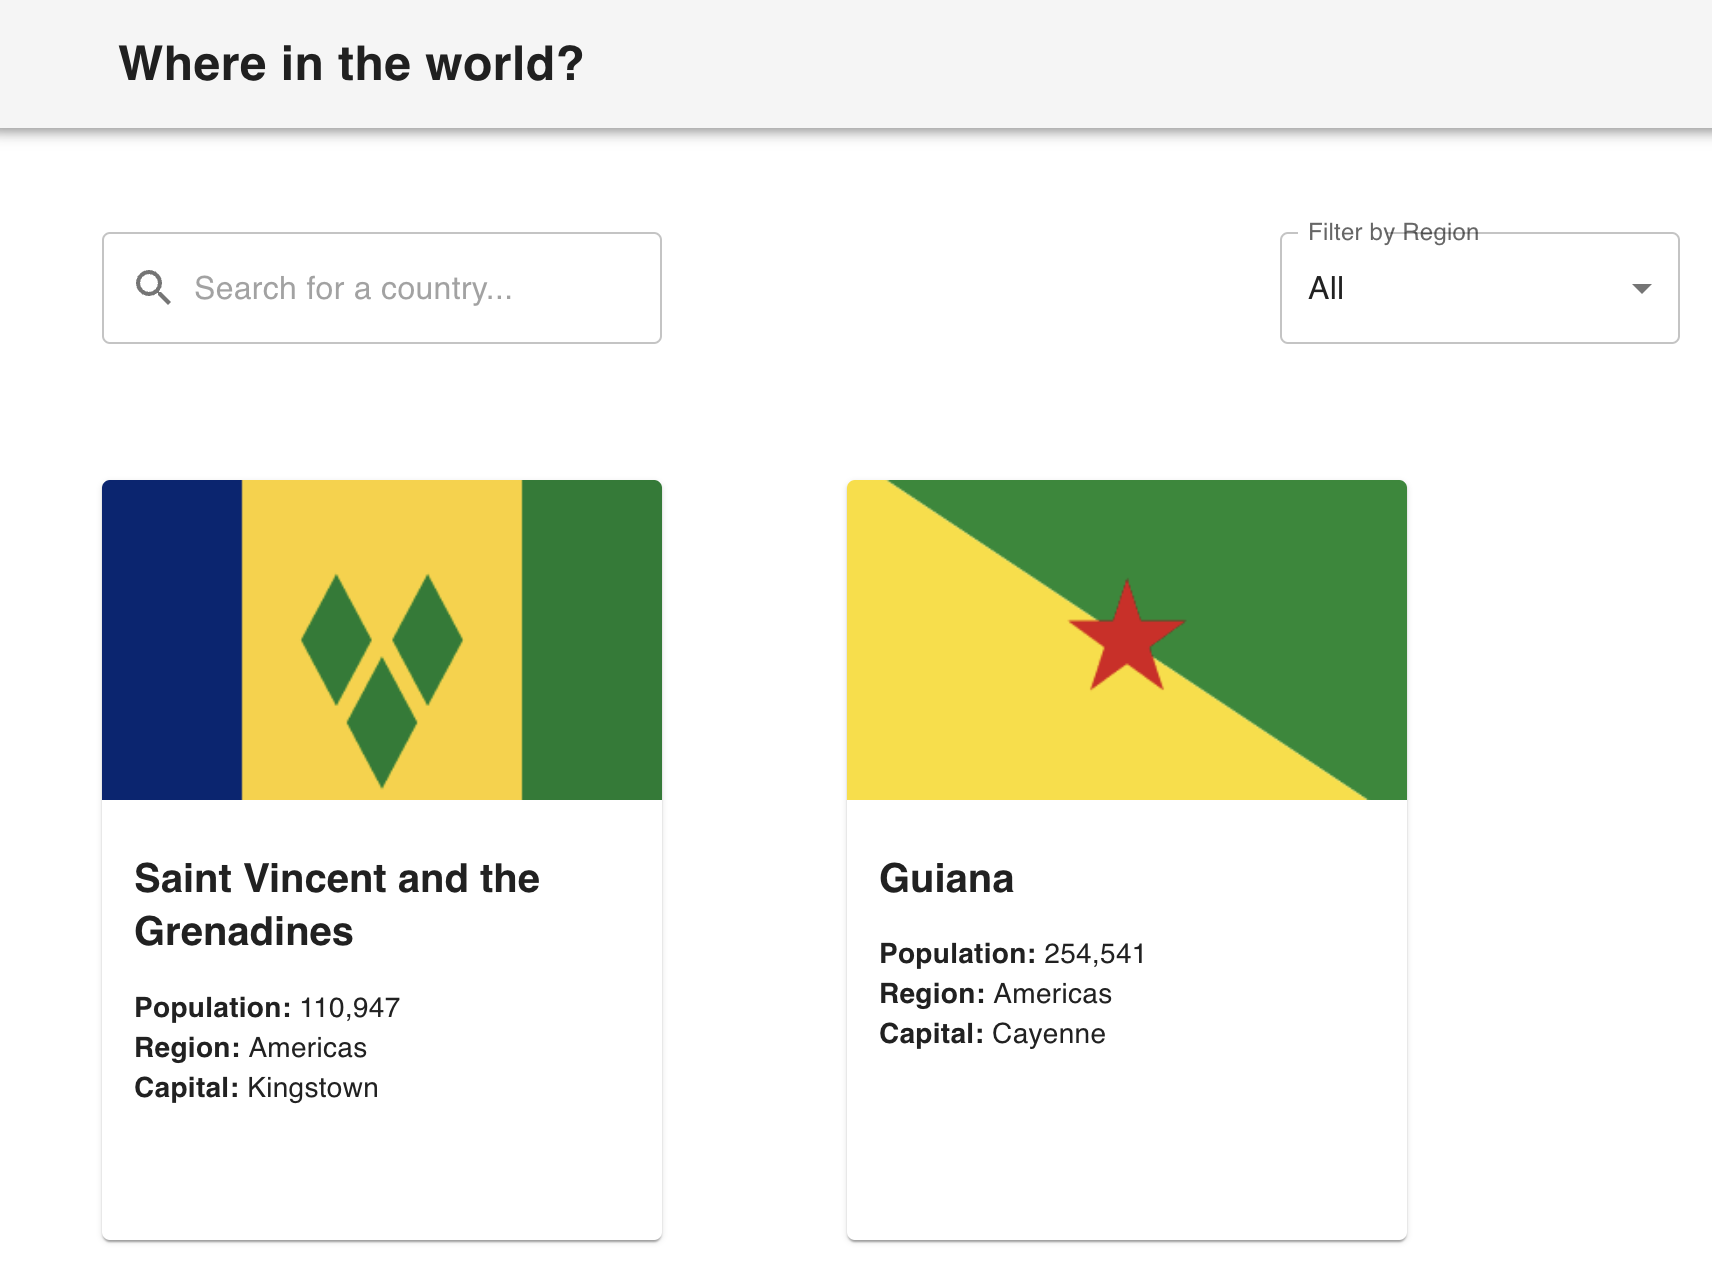
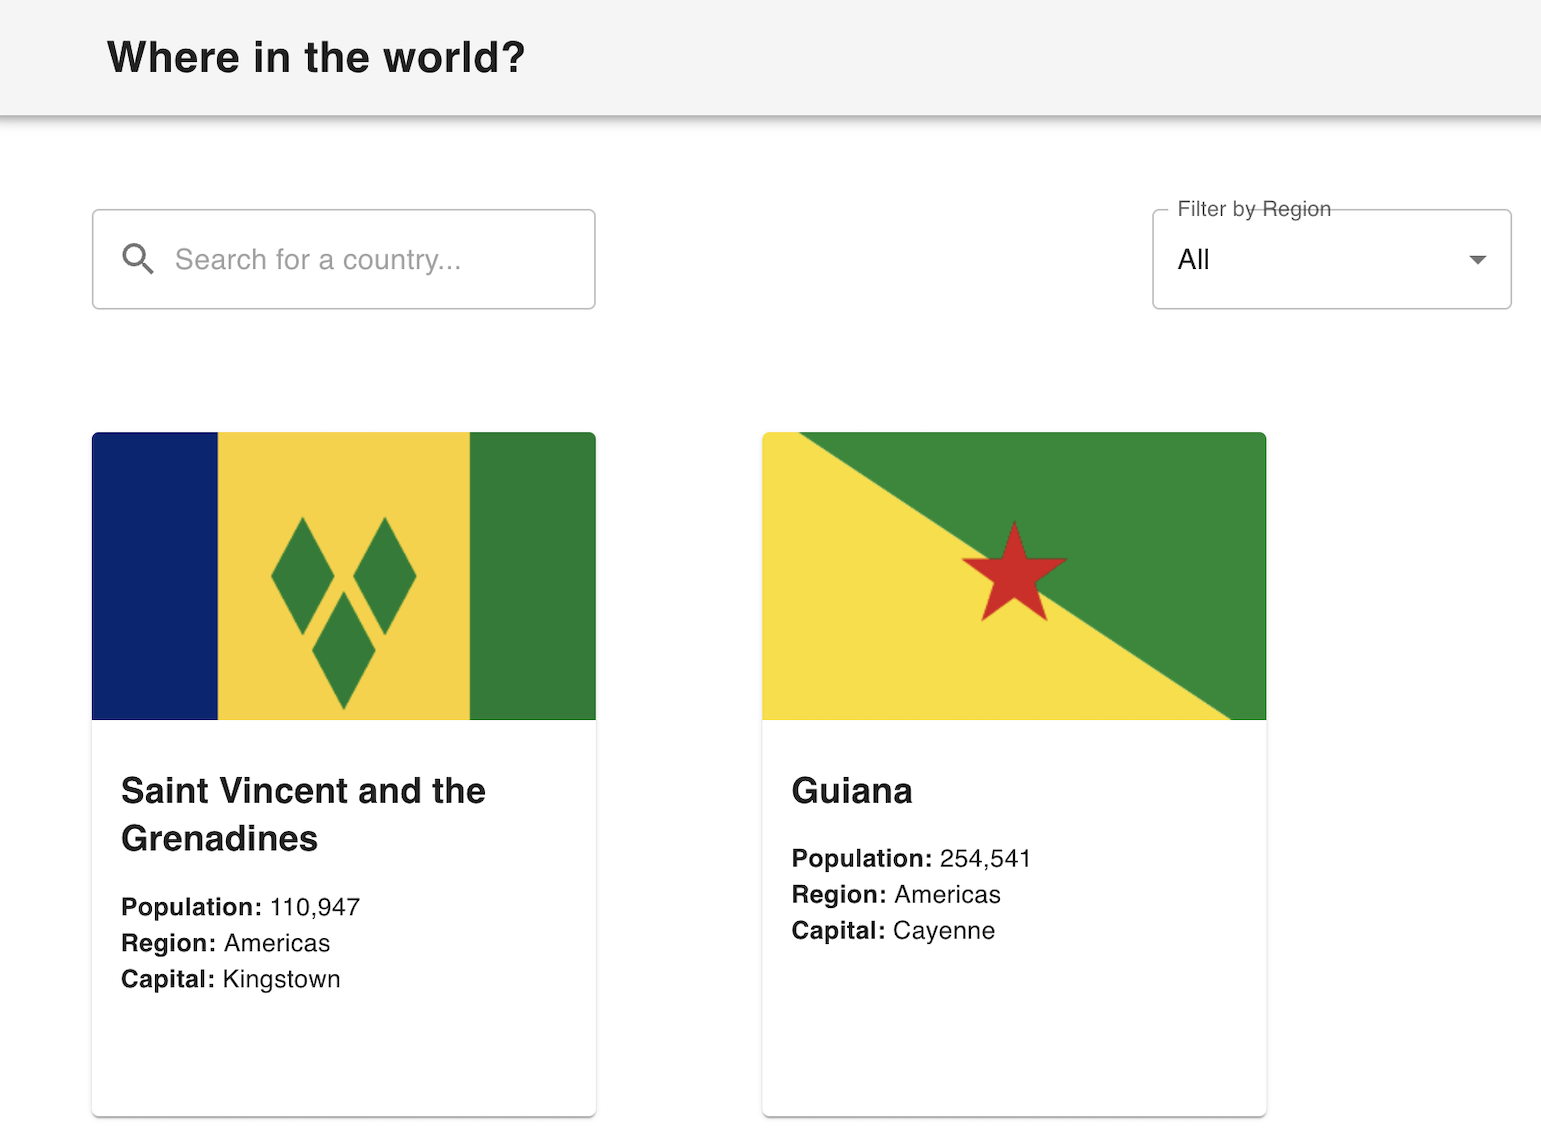
style: modify

diff --git a/src/components/Main/index.module.css b/src/components/Main/index.module.css
@@ -5,7 +5,7 @@
 
 .about {
   height: 90vh;
-  padding-top: 180px;
+  padding-top: 150px;
   display: flex;
   flex-direction: column;
   align-items: center;
